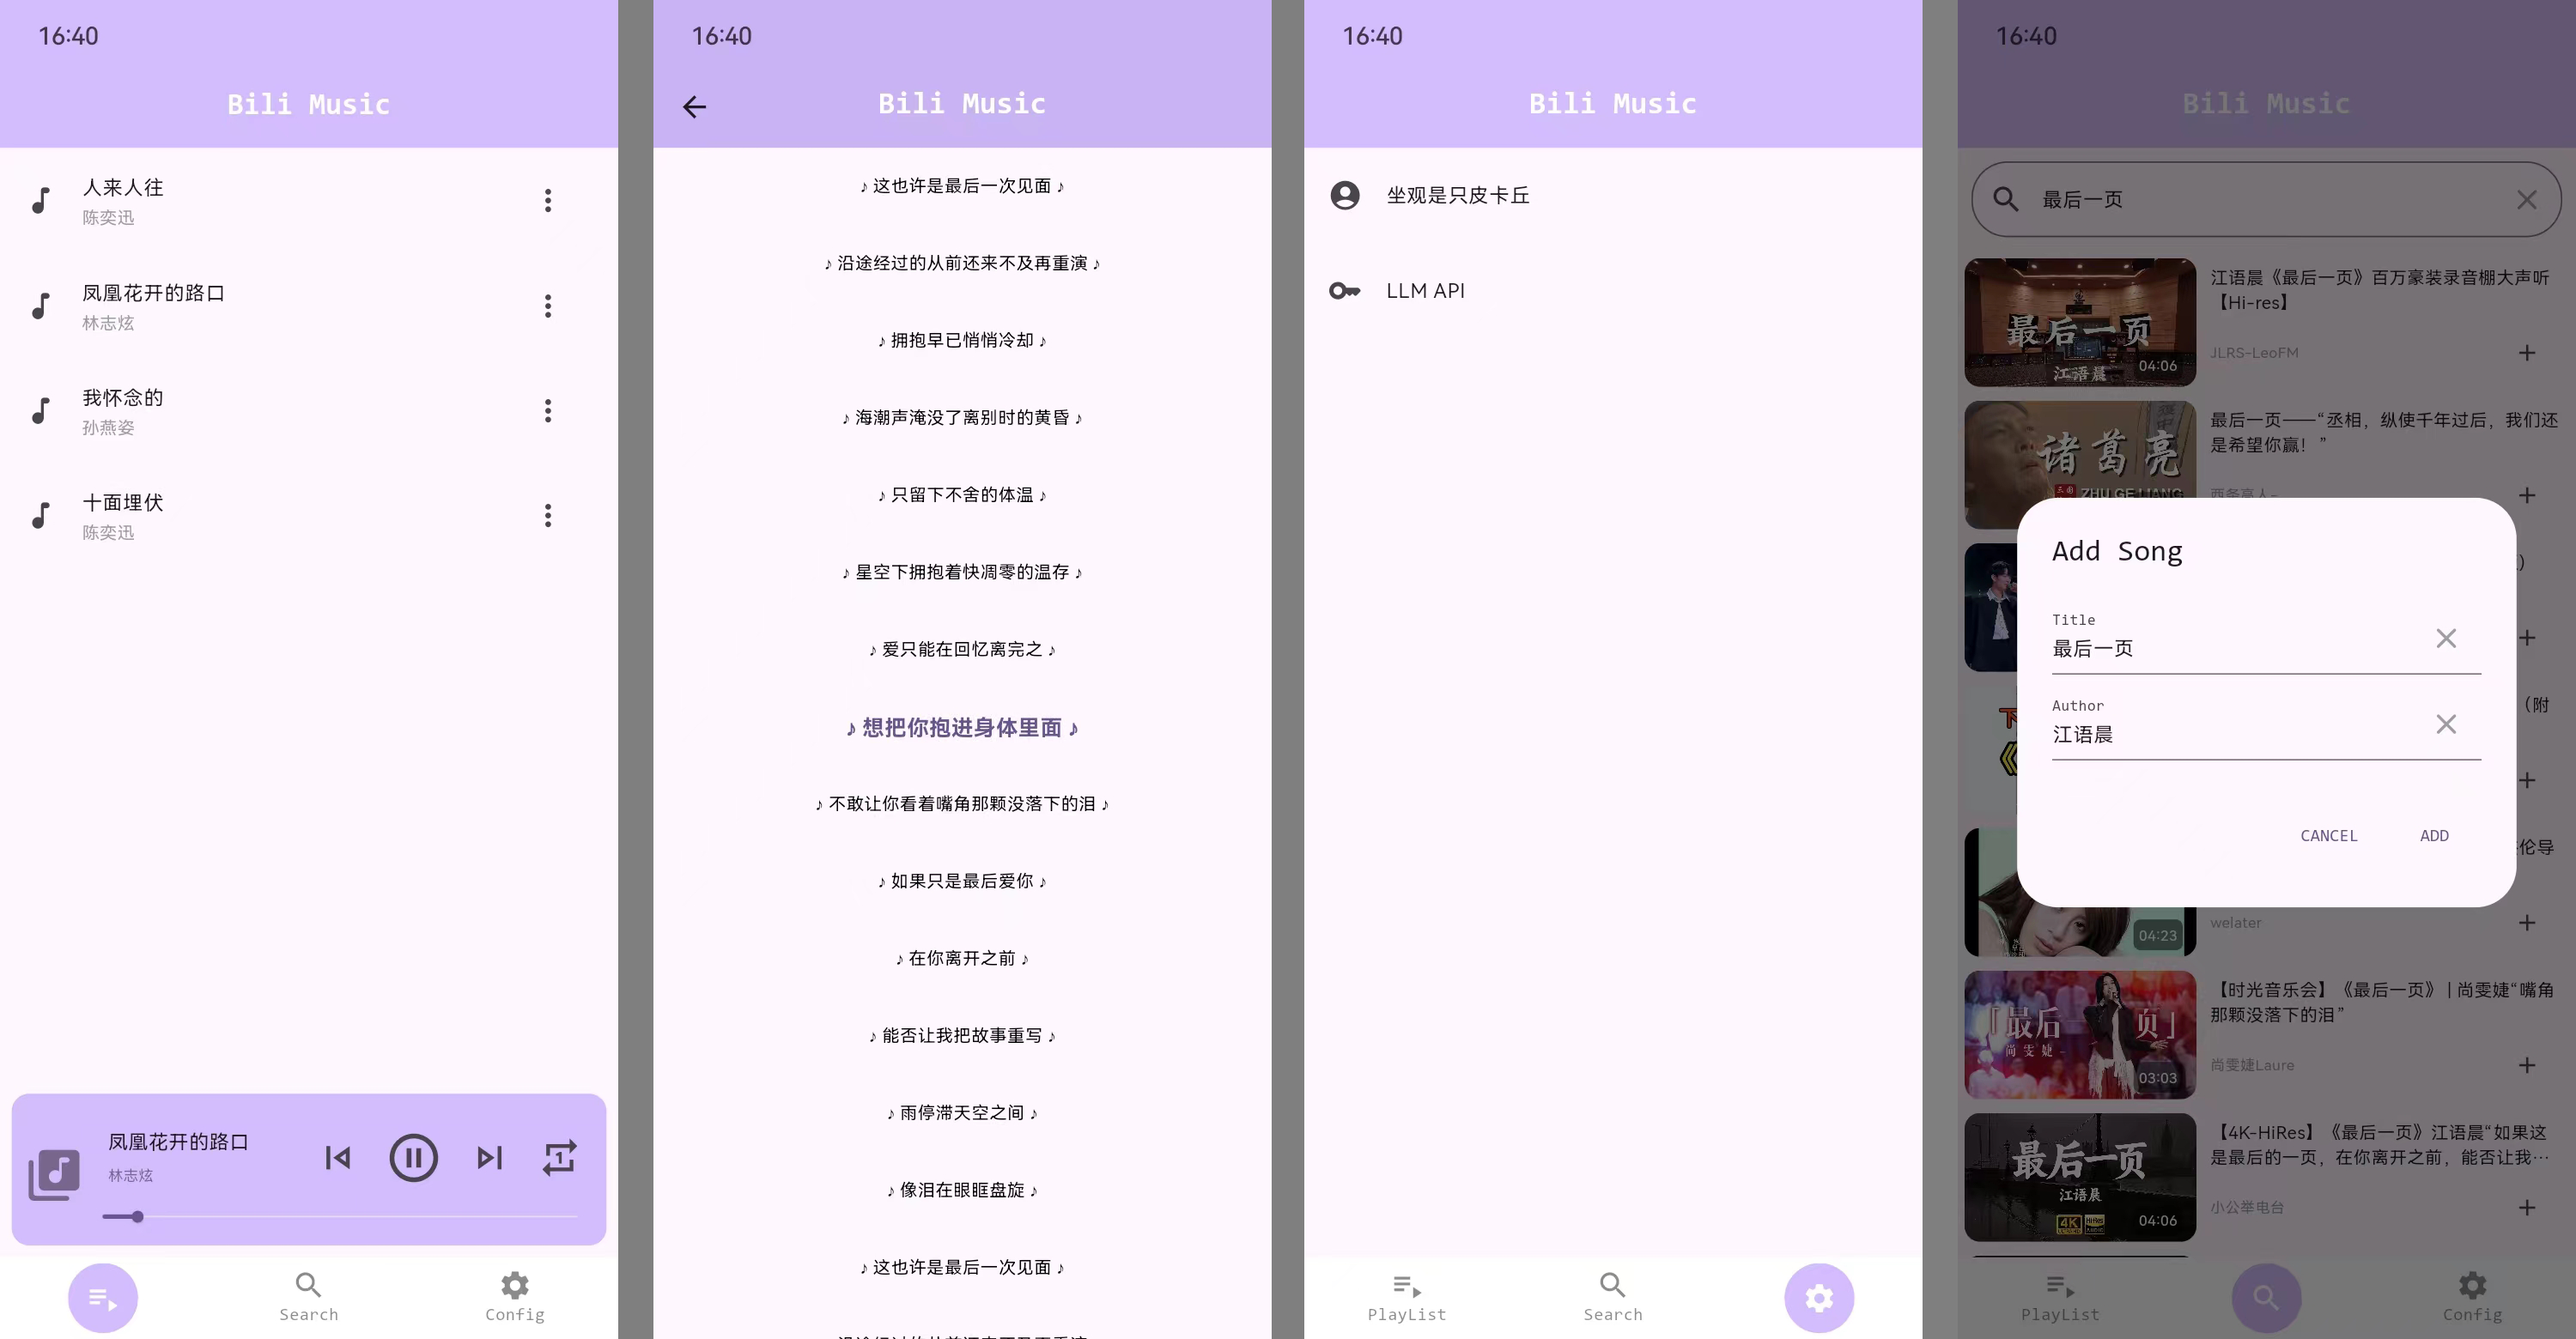
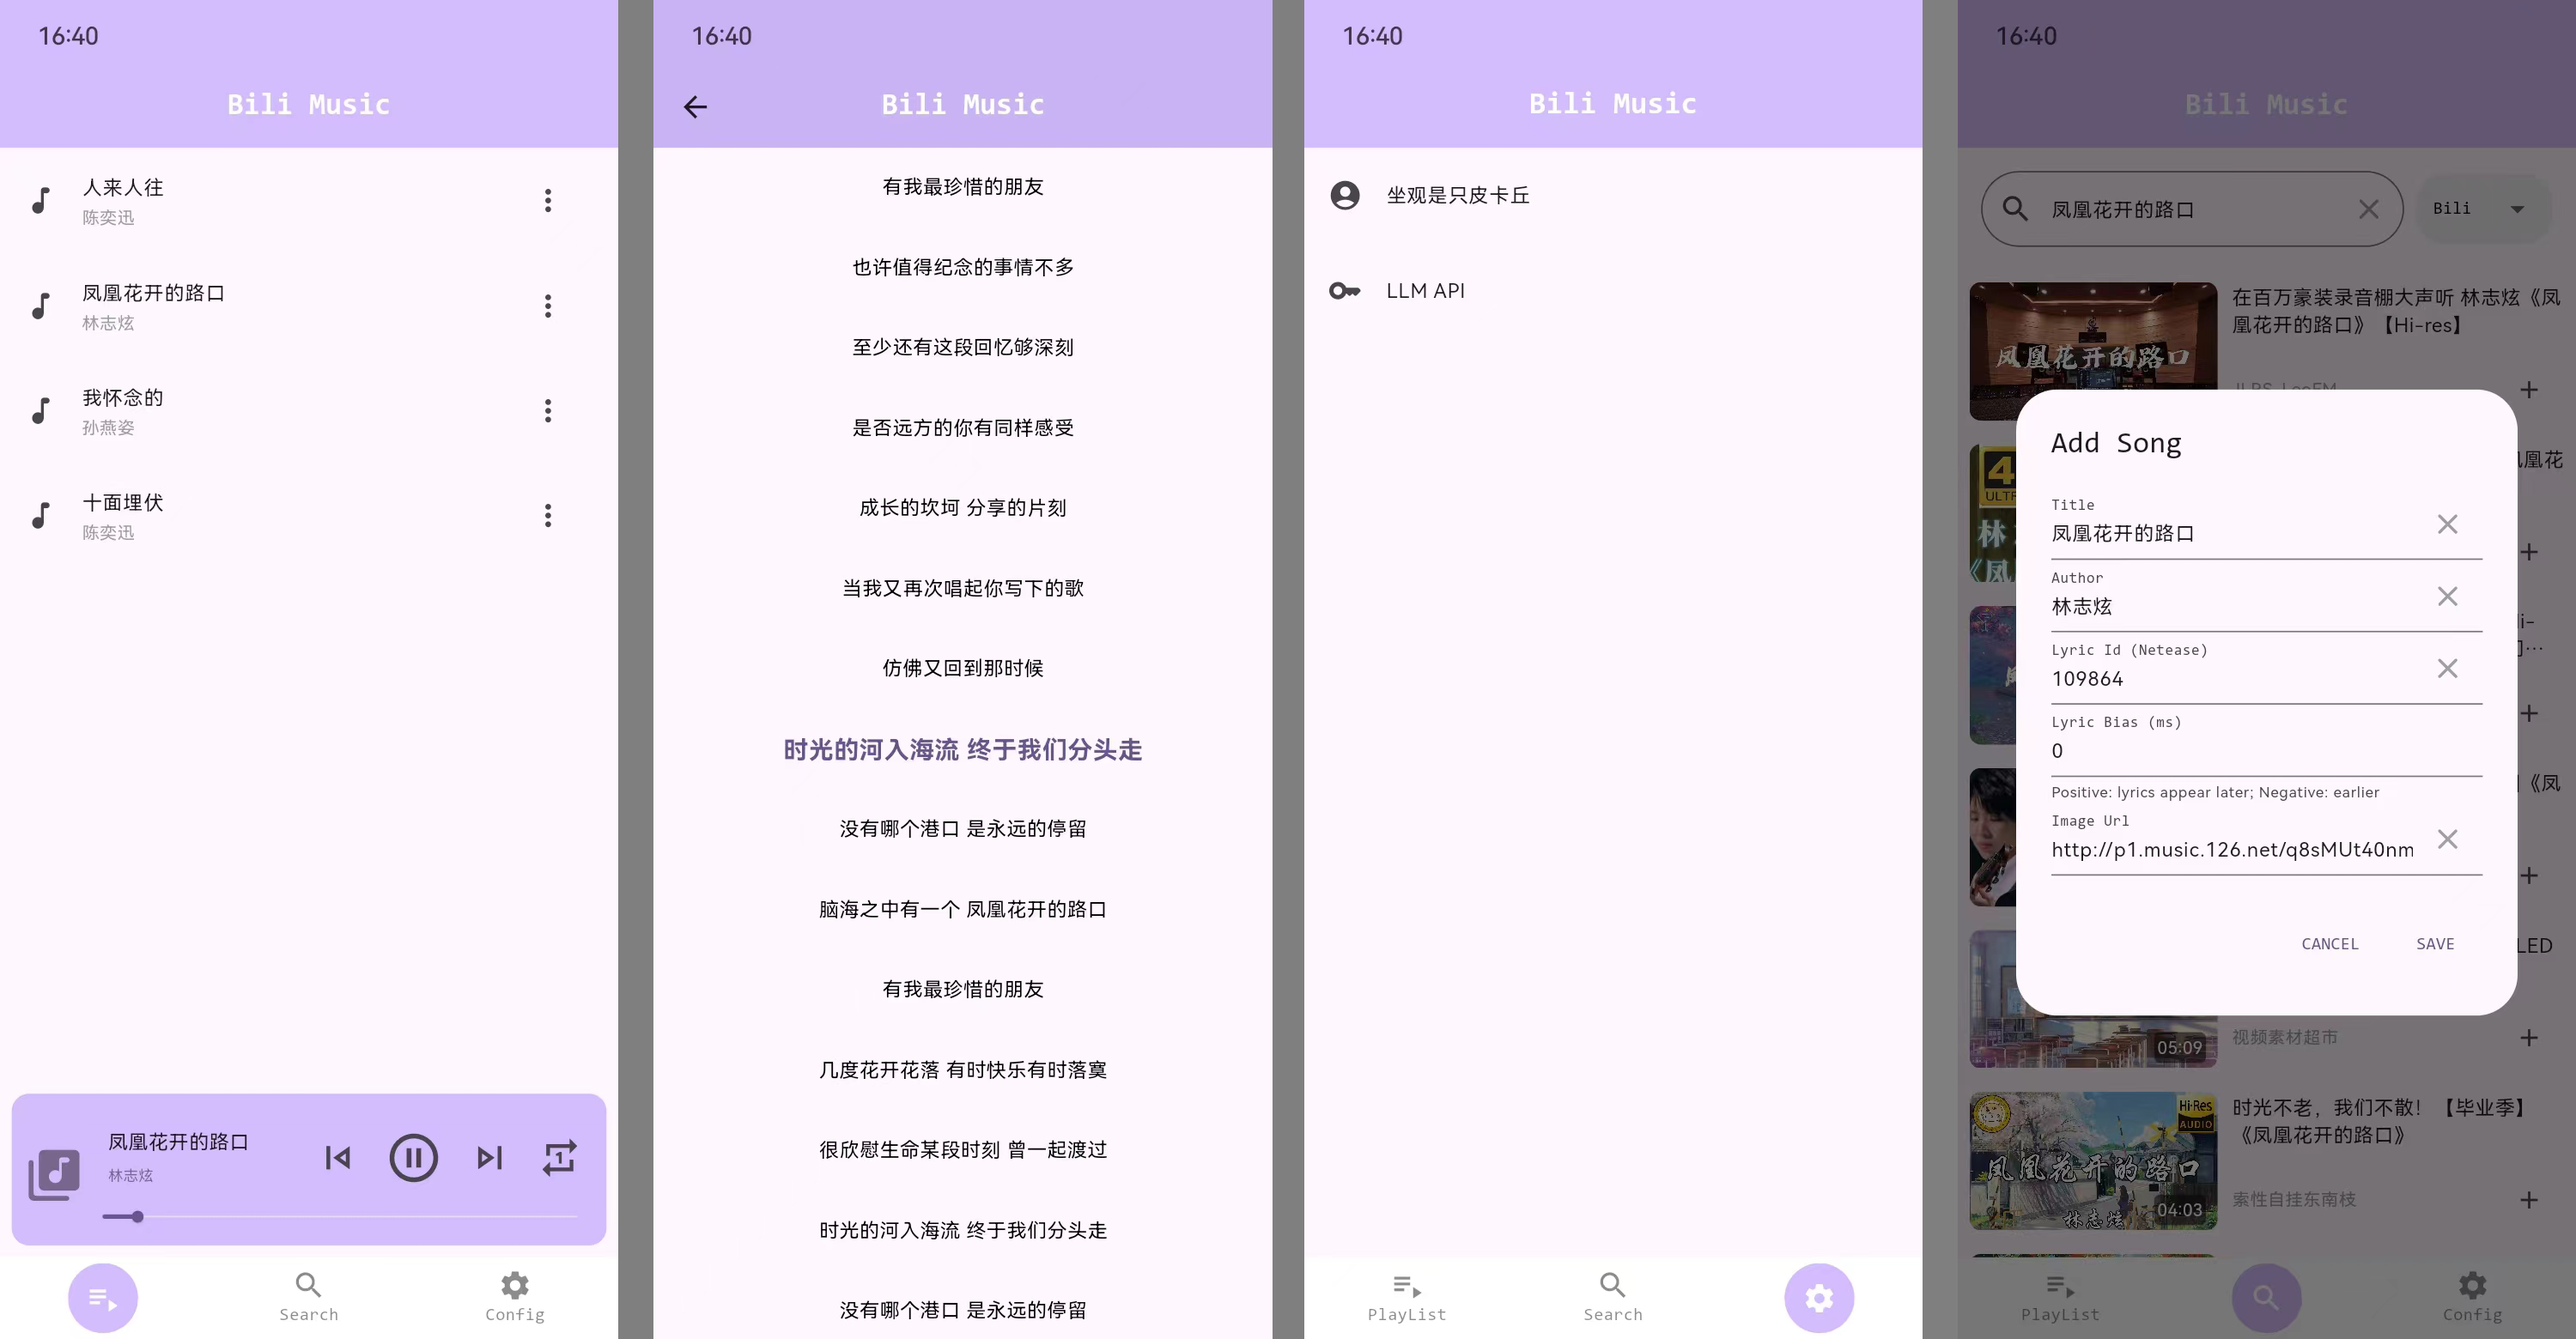
netease

diff --git a/lib/pages/shared/widgets/song_form_dialog.dart b/lib/pages/shared/widgets/song_form_dialog.dart
@@ -57,17 +57,6 @@ class SongFormDialog extends StatelessWidget {
               ),
               if (isBilibili)
                 ClearableTextField(
-                  controller: imageUrlController,
-                  label: 'Image Url',
-                  onAutoFill: () async {
-                    imageUrlController.text = await songEditController.getImageUrl(
-                      titleController.text,
-                      authorController.text,
-                    );
-                  },
-                ),
-              if (isBilibili)
-                ClearableTextField(
                   controller: lyricIdController,
                   label: 'Lyric Id (Netease)',
                   onAutoFill: () async {
@@ -85,7 +74,19 @@ class SongFormDialog extends StatelessWidget {
                     labelStyle: TextStyle(fontFamily: 'Consolas'),
                     helperText: 'Positive: lyrics appear later; Negative: earlier',
                   ),
-                )
+                ),
+              if (isBilibili)
+                ClearableTextField(
+                  controller: imageUrlController,
+                  label: 'Image Url',
+                  onAutoFill: () async {
+                    imageUrlController.text = await songEditController.getImageUrl(
+                      titleController.text,
+                      authorController.text,
+                      lyricIdController.text,
+                    );
+                  },
+                ),
             ]
           ))
         )

diff --git a/lib/pages/lyrics_page/view.dart b/lib/pages/lyrics_page/view.dart
@@ -42,13 +42,16 @@ class LyricsPage extends StatelessWidget {
                     child: SizedBox(
                       height: 55,
                       child: Center(
-                        child: Text(item.text,
-                          textAlign: TextAlign.center,
-                          style: TextStyle(
-                            fontSize: isCurrent? 20 : 16,
-                            color: isCurrent? Theme.of(context).colorScheme.primary : Colors.black,
-                            fontWeight: isCurrent ? FontWeight.bold : FontWeight.normal,
-                          ),
+                        child: Padding(
+                          padding: const EdgeInsets.symmetric(horizontal: 16),
+                          child: Text(item.text,
+                            textAlign: TextAlign.center,
+                            style: TextStyle(
+                              fontSize: isCurrent? 20 : 16,
+                              color: isCurrent? Theme.of(context).colorScheme.primary : Colors.black,
+                              fontWeight: isCurrent ? FontWeight.bold : FontWeight.normal,
+                            ),
+                          )
                         )
                       ),
                     ),

diff --git a/lib/pages/shared/controllers/song_edit_controller.dart b/lib/pages/shared/controllers/song_edit_controller.dart
@@ -5,8 +5,14 @@ import 'package:bili_music/services/netease_service.dart';
 class SongEditController extends GetxController {
   final neteaseService = Get.find<NeteaseService>();
 
-  Future<String> getImageUrl(String title, String author) async =>
-      await neteaseService.getImageUrlByTitleAndAuthor(title, author);
+  Future<String> getImageUrl(String title, String author, String id) async {
+    if (id.isNotEmpty){
+      return await neteaseService.getImageUrl(id);
+    }
+    else{
+      return await neteaseService.getImageUrlByTitleAndAuthor(title, author);
+    }
+  }
 
   Future<String> getLyricId(String title, String author) async =>
       await neteaseService.getIdByTitleAndAuthor(title, author);

diff --git a/README.md b/README.md
@@ -9,7 +9,8 @@
 - [x] 媒体搜索
 - [x] 音乐播放
 - [x] LLM提取歌曲信息（符合OpenAI接口即可）
-- [x] 滚动歌词（B站CC字幕，需要登录 / 网易云音乐，无需登录）
+- [x] 滚动歌词（B站CC字幕，需要登录；网易云音乐，无需登录）
+- [x] 根据歌曲名称+歌手，从网易云音乐获取歌曲ID。通过歌曲ID获取歌词、封面。
 - [ ] 收藏夹导入
 - [ ] 下载
 - [ ] More
